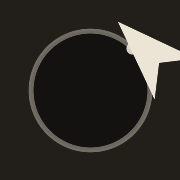
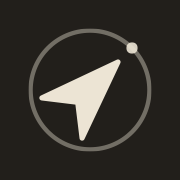
フィードバック反映: ヘッダー全ページリンク化・アイコンPNG修正・よくある質問へ改称ほか
- ヘッダー nav をフッターと同じ 4 ページリンクに変更（折り返し対応・aria-current 付与）
- favicon-32.png / apple-touch-icon.png を QuickLook レンダラで再生成（ImageMagick の SVG 描画崩れを修正）
- ヒーローの左右パディング復元（.hero が .wrap の横パディングを 0 で潰していた）
- サポート → よくある質問 に改称（title・h1・全リンクテキスト。URL /support/ は維持）
- フィードバックはフォームボタンを先頭へ戻す
- donate: 「形にしたアプリです」「課金も、広告も、アカウント登録もありません。〜あり続けたいと考えています。」
- 読点の復元 3 箇所（文体規則の調整による。privacy 2・donate 1）

diff --git a/donate/index.html b/donate/index.html
@@ -22,9 +22,10 @@
   <div class="wrap">
     <a class="wordmark" href="../"><img class="mark" src="../assets/icon.svg" alt="" width="26" height="26">Norapo</a>
     <nav class="site-nav" aria-label="サイト内">
-      <a href="../#howto">使い方</a>
-      <a href="../support/">サポート</a>
-      <a href="../privacy/">プライバシー</a>
+      <a href="../support/">よくある質問</a>
+      <a href="../privacy/">プライバシーポリシー</a>
+      <a href="../feedback/">フィードバック</a>
+      <a aria-current="page" href="../donate/">開発者を支援する</a>
     </nav>
   </div>
 </header>
@@ -47,16 +48,16 @@
     <p class="note">支援の有無でアプリの機能は変わりません。フィードバックは<a href="../feedback/">フィードバックフォーム</a>からいつでもどうぞ。</p>
 
     <h2>Norapo に込めた思い</h2>
-    <p>散歩の楽しみは町中の何気ない風景に豊かさを感じたり、小さな発見をしたり、とりとめのない思考をくゆらせたりするところにあると思っています。</p>
-    <p>旅先や出かけ先では目的地があります。急ぐわけではなく、道中も楽しみたい。それでも方向をまったく意識しないと、たどり着けなかったり大きく遠回りしたりする。そんなとき、方向と距離だけを Apple Watch でそっと確認できたら——スマホから離れて、いまここの世界に目を向けたまま歩けるはず。Norapo はその体験を形にした道具です。</p>
-    <p>地図も、広告も、アカウントもありません。これからも無料のまま、静かな道具であり続けます。</p>
+    <p>散歩の楽しみは、町中の何気ない風景に豊かさを感じたり、小さな発見をしたり、とりとめのない思考をくゆらせたりするところにあると思っています。</p>
+    <p>旅先や出かけ先では目的地があります。急ぐわけではなく、道中も楽しみたい。それでも方向をまったく意識しないと、たどり着けなかったり大きく遠回りしたりする。そんなとき、方向と距離だけを Apple Watch でそっと確認できたら——スマホから離れて、いまここの世界に目を向けたまま歩けるはず。Norapo はその体験を形にしたアプリです。</p>
+    <p>課金も、広告も、アカウント登録もありません。これからも無料のまま、静かな道具であり続けたいと考えています。</p>
   </div>
 </main>
 
 <!-- partial:footer -->
 <footer>
   <div class="wrap">
-    <a href="../support/">サポート</a>
+    <a href="../support/">よくある質問</a>
     <a href="../privacy/">プライバシーポリシー</a>
     <a href="../feedback/">フィードバック</a>
     <a aria-current="page" href="../donate/">開発者を支援する</a>

diff --git a/privacy/index.html b/privacy/index.html
@@ -22,9 +22,10 @@
   <div class="wrap">
     <a class="wordmark" href="../"><img class="mark" src="../assets/icon.svg" alt="" width="26" height="26">Norapo</a>
     <nav class="site-nav" aria-label="サイト内">
-      <a href="../#howto">使い方</a>
-      <a href="../support/">サポート</a>
-      <a aria-current="page" href="../privacy/">プライバシー</a>
+      <a href="../support/">よくある質問</a>
+      <a aria-current="page" href="../privacy/">プライバシーポリシー</a>
+      <a href="../feedback/">フィードバック</a>
+      <a href="../donate/">開発者を支援する</a>
     </nav>
   </div>
 </header>
@@ -63,10 +64,10 @@
     <p>診断ログはあなたが診断画面から自分でコピーして共有しない限り、端末の外に出ることはありません。これらはアプリを削除するとすべて消えます。</p>
 
     <h2>位置情報の使いみち</h2>
-    <p>iPhone と Apple Watch の位置情報・コンパスは目的地への方向と距離の計算、および到着の検知だけに使います。計算はすべて端末の中で行われます。</p>
+    <p>iPhone と Apple Watch の位置情報・コンパスは、目的地への方向と距離の計算、および到着の検知だけに使います。計算はすべて端末の中で行われます。</p>
 
     <h2>フィードバックで送っていただいた情報</h2>
-    <p>フィードバックフォーム（Google フォーム）に任意で記入されたメールアドレスは返信のためだけに使います。貼り付けられた診断ログは不具合の調査のためだけに使います。いずれも第三者に提供しません。フォームは Google のサービス上で動作します。</p>
+    <p>フィードバックフォーム（Google フォーム）に任意で記入されたメールアドレスは返信のためだけに、貼り付けられた診断ログは不具合の調査のためだけに使い、第三者に提供しません。フォームは Google のサービス上で動作します。</p>
     <p>送っていただいた内容は対応が完了してから 6 か月以内に削除します。それより前の削除をご希望の場合は<a href="../feedback/">フィードバック</a>からお知らせください。確認のうえ削除します。</p>
 
     <h2>お問い合わせ</h2>
@@ -80,7 +81,7 @@
 <!-- partial:footer -->
 <footer>
   <div class="wrap">
-    <a href="../support/">サポート</a>
+    <a href="../support/">よくある質問</a>
     <a aria-current="page" href="../privacy/">プライバシーポリシー</a>
     <a href="../feedback/">フィードバック</a>
     <a href="../donate/">開発者を支援する</a>

diff --git a/support/index.html b/support/index.html
@@ -3,7 +3,7 @@
 <head>
 <meta charset="utf-8">
 <meta name="viewport" content="width=device-width, initial-scale=1">
-<title>サポート — Norapo</title>
+<title>よくある質問 — Norapo</title>
 <link rel="preconnect" href="https://fonts.googleapis.com">
 <link rel="preconnect" href="https://fonts.gstatic.com" crossorigin>
 <link href="https://fonts.googleapis.com/css2?family=Instrument+Sans:wght@500;600&family=Zen+Kaku+Gothic+New:wght@400;500;700&display=swap" rel="stylesheet">
@@ -22,9 +22,10 @@
   <div class="wrap">
     <a class="wordmark" href="../"><img class="mark" src="../assets/icon.svg" alt="" width="26" height="26">Norapo</a>
     <nav class="site-nav" aria-label="サイト内">
-      <a href="../#howto">使い方</a>
-      <a aria-current="page" href="../support/">サポート</a>
-      <a href="../privacy/">プライバシー</a>
+      <a aria-current="page" href="../support/">よくある質問</a>
+      <a href="../privacy/">プライバシーポリシー</a>
+      <a href="../feedback/">フィードバック</a>
+      <a href="../donate/">開発者を支援する</a>
     </nav>
   </div>
 </header>
@@ -32,11 +33,10 @@
 
 <main>
   <div class="wrap">
-    <h1>サポート</h1>
-    <p class="lede">よくある質問で解決しないときは、フィードバックからお知らせください。</p>
+    <h1>よくある質問</h1>
+    <p class="lede">ここで解決しないときは、フィードバックからお知らせください。</p>
     <a class="button-link" href="../feedback/">フィードバックを送る</a>
 
-    <h2 id="faq">よくある質問</h2>
     <dl class="faq">
       <dt>矢印の向きがずれている気がします</dt>
       <dd>コンパスは周囲の磁気（車・鉄骨・電子機器など）の影響を受けることがあります。端末を水平に保ったまま数歩歩くと安定します。精度が低いあいだは矢印のかわりに調整中の表示が出ます。</dd>
@@ -71,7 +71,7 @@
 <!-- partial:footer -->
 <footer>
   <div class="wrap">
-    <a aria-current="page" href="../support/">サポート</a>
+    <a aria-current="page" href="../support/">よくある質問</a>
     <a href="../privacy/">プライバシーポリシー</a>
     <a href="../feedback/">フィードバック</a>
     <a href="../donate/">開発者を支援する</a>

diff --git a/feedback/index.html b/feedback/index.html
@@ -22,9 +22,10 @@
   <div class="wrap">
     <a class="wordmark" href="../"><img class="mark" src="../assets/icon.svg" alt="" width="26" height="26">Norapo</a>
     <nav class="site-nav" aria-label="サイト内">
-      <a href="../#howto">使い方</a>
-      <a href="../support/">サポート</a>
-      <a href="../privacy/">プライバシー</a>
+      <a href="../support/">よくある質問</a>
+      <a href="../privacy/">プライバシーポリシー</a>
+      <a aria-current="page" href="../feedback/">フィードバック</a>
+      <a href="../donate/">開発者を支援する</a>
     </nav>
   </div>
 </header>
@@ -35,20 +36,19 @@
     <h1>フィードバック</h1>
 
     <p>不具合の報告も、要望も、感想も歓迎します。返信をご希望の場合はフォームのメールアドレス欄（任意）にご記入ください。</p>
+    <a class="button-link" href="#">フィードバックフォームを開く</a>
 
     <h2>不具合を報告するとき</h2>
     <p>目的地の設定に失敗するなどの不具合をお知らせいただくときは、診断ログを添えていただけると原因調査にとても役立ちます。</p>
     <div class="path">iPhone の Norapo で ••• メニュー → 診断ログ → すべてコピー → フォームに貼り付け</div>
     <p>診断ログにあなたの現在地は含まれません。くわしくは<a href="../privacy/">プライバシーポリシー</a>をご覧ください。</p>
-
-    <a class="button-link" href="#">フィードバックフォームを開く</a>
   </div>
 </main>
 
 <!-- partial:footer -->
 <footer>
   <div class="wrap">
-    <a href="../support/">サポート</a>
+    <a href="../support/">よくある質問</a>
     <a href="../privacy/">プライバシーポリシー</a>
     <a aria-current="page" href="../feedback/">フィードバック</a>
     <a href="../donate/">開発者を支援する</a>

diff --git a/assets/site.css b/assets/site.css
@@ -37,10 +37,10 @@ p { margin: 0 0 1.2em; font-size: 0.95rem; }
 
 /* ヘッダー */
 .site-header { padding: 1.5rem 0; }
-.site-header .wrap { display: flex; align-items: center; justify-content: space-between; }
+.site-header .wrap { display: flex; flex-wrap: wrap; align-items: center; justify-content: space-between; row-gap: 0.4rem; }
 .wordmark { display: flex; align-items: center; gap: 0.55rem; font-family: var(--font-num); font-weight: 600; font-size: 1.05rem; letter-spacing: 0.02em; color: var(--dest); text-decoration: none; }
 .wordmark .mark { display: block; }
-.site-nav { display: flex; gap: 1.25rem; font-size: 0.8rem; }
+.site-nav { display: flex; flex-wrap: wrap; gap: 0.2rem 1.25rem; font-size: 0.8rem; }
 .site-nav a { text-decoration: none; color: var(--sub); }
 .site-nav a:hover { color: var(--accent); }
 .site-nav a[aria-current="page"],
@@ -63,8 +63,8 @@ footer .copyright { color: var(--muted); margin-left: auto; }
 
 /* ===== ホーム（.page-home） ===== */
 
-/* ヒーロー */
-.hero { padding: 4.5rem 0 5rem; text-align: center; }
+/* ヒーロー（.wrap の左右パディングを 0 で潰さないこと） */
+.hero { padding: 4.5rem 1.5rem 5rem; text-align: center; }
 .hero h1 {
   color: var(--accent);
   font-weight: 700;
@@ -136,7 +136,7 @@ footer .copyright { color: var(--muted); margin-left: auto; }
 .hero-toggle[data-playing="false"] .icon-pause { display: none; }
 /* モバイル: h1 がファーストビューに入るようモックを縮小（320px 幅でもボタンがはみ出さない） */
 @media (max-width: 560px) {
-  .hero { padding: 2rem 0 3.5rem; }
+  .hero { padding: 2rem 1.5rem 3.5rem; }
   .hero-visual, .hero-mock { width: 190px; }
   .hero h1 { margin-top: 2rem; }
 }

diff --git a/index.html b/index.html
@@ -23,9 +23,10 @@
   <div class="wrap">
     <a class="wordmark" href="./"><img class="mark" src="./assets/icon.svg" alt="" width="26" height="26">Norapo</a>
     <nav class="site-nav" aria-label="サイト内">
-      <a href="./#howto">使い方</a>
-      <a href="./support/">サポート</a>
-      <a href="./privacy/">プライバシー</a>
+      <a href="./support/">よくある質問</a>
+      <a href="./privacy/">プライバシーポリシー</a>
+      <a href="./feedback/">フィードバック</a>
+      <a href="./donate/">開発者を支援する</a>
     </nav>
   </div>
 </header>
@@ -188,7 +189,7 @@
 <!-- partial:footer -->
 <footer>
   <div class="wrap">
-    <a href="./support/">サポート</a>
+    <a href="./support/">よくある質問</a>
     <a href="./privacy/">プライバシーポリシー</a>
     <a href="./feedback/">フィードバック</a>
     <a href="./donate/">開発者を支援する</a>

diff --git a/partials/header.html b/partials/header.html
@@ -2,9 +2,10 @@
   <div class="wrap">
     <a class="wordmark" href="{{root}}"><img class="mark" src="{{root}}assets/icon.svg" alt="" width="26" height="26">Norapo</a>
     <nav class="site-nav" aria-label="サイト内">
-      <a href="{{root}}#howto">使い方</a>
-      <a href="{{root}}support/">サポート</a>
-      <a href="{{root}}privacy/">プライバシー</a>
+      <a href="{{root}}support/">よくある質問</a>
+      <a href="{{root}}privacy/">プライバシーポリシー</a>
+      <a href="{{root}}feedback/">フィードバック</a>
+      <a href="{{root}}donate/">開発者を支援する</a>
     </nav>
   </div>
 </header>

diff --git a/partials/footer.html b/partials/footer.html
@@ -1,6 +1,6 @@
 <footer>
   <div class="wrap">
-    <a href="{{root}}support/">サポート</a>
+    <a href="{{root}}support/">よくある質問</a>
     <a href="{{root}}privacy/">プライバシーポリシー</a>
     <a href="{{root}}feedback/">フィードバック</a>
     <a href="{{root}}donate/">開発者を支援する</a>

diff --git a/README.md b/README.md
@@ -8,7 +8,7 @@
 
 ```
 index.html              ホーム
-support/index.html      /support/   サポート（よくある質問）
+support/index.html      /support/   よくある質問
 feedback/index.html     /feedback/  フィードバック
 privacy/index.html      /privacy/   プライバシーポリシー
 donate/index.html       /donate/    開発者を支援する
